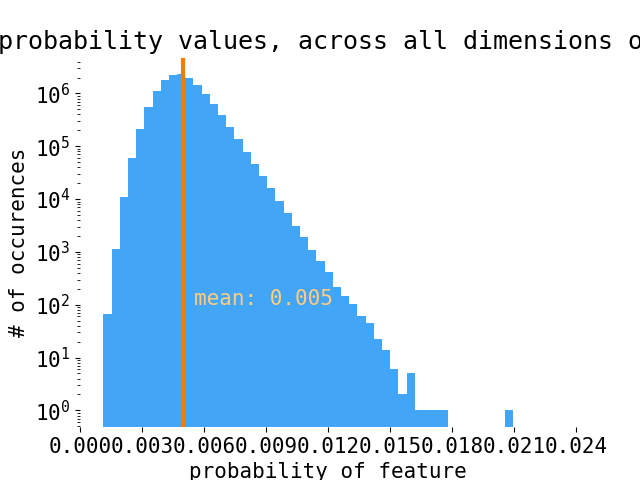
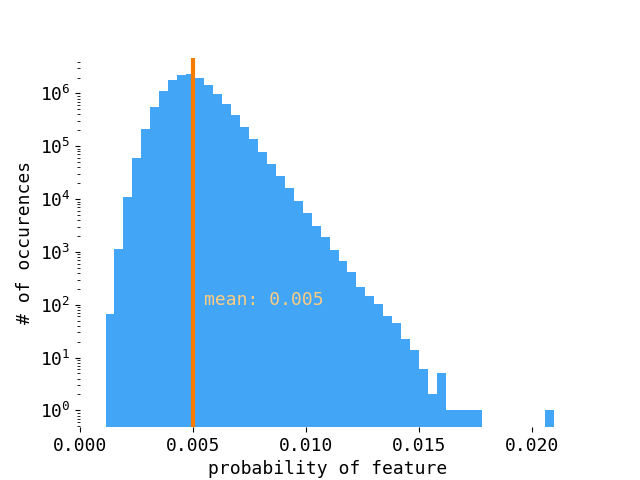
add ADD and DIFFERENCE in word2vec

diff --git a/word2blank/word2vec/add.c b/word2blank/word2vec/add.c
@@ -1,0 +1,147 @@
+//  Copyright 2013 Google Inc. All Rights Reserved.
+//
+//  Licensed under the Apache License, Version 2.0 (the "License");
+//  you may not use this file except in compliance with the License.
+//  You may obtain a copy of the License at
+//
+//      http://www.apache.org/licenses/LICENSE-2.0
+//
+//  Unless required by applicable law or agreed to in writing, software
+//  distributed under the License is distributed on an "AS IS" BASIS,
+//  WITHOUT WARRANTIES OR CONDITIONS OF ANY KIND, either express or implied.
+//  See the License for the specific language governing permissions and
+//  limitations under the License.
+
+#include <stdio.h>
+#include <string.h>
+#include <math.h>
+#include <stdlib.h>
+
+const long long max_size = 2000;         // max length of strings
+const long long N = 40;                  // number of closest words that will be shown
+const long long max_w = 50;              // max length of vocabulary entries
+
+int main(int argc, char **argv) {
+  FILE *f;
+  char st1[max_size];
+  char bestw[N][max_size];
+  char file_name[max_size], st[100][max_size];
+  float dist, len, bestd[N], vec[max_size];
+  long long words, size, a, b, c, d, cn, bi[100];
+  float *M;
+  char *vocab;
+  if (argc < 2) {
+    printf("Usage: ./word-analogy <FILE>\nwhere FILE contains word projections in the BINARY FORMAT\n");
+    return 0;
+  }
+  strcpy(file_name, argv[1]);
+  f = fopen(file_name, "rb");
+  if (f == NULL) {
+    printf("Input file not found\n");
+    return -1;
+  }
+  fscanf(f, "%lld", &words);
+  fscanf(f, "%lld", &size);
+  vocab = (char *)malloc((long long)words * max_w * sizeof(char));
+  M = (float *)malloc((long long)words * (long long)size * sizeof(float));
+  if (M == NULL) {
+    printf("Cannot allocate memory: %lld MB    %lld  %lld\n", (long long)words * size * sizeof(float) / 1048576, words, size);
+    return -1;
+  }
+  for (b = 0; b < words; b++) {
+    a = 0;
+    while (1) {
+      vocab[b * max_w + a] = fgetc(f);
+      if (feof(f) || (vocab[b * max_w + a] == ' ')) break;
+      if ((a < max_w) && (vocab[b * max_w + a] != '\n')) a++;
+    }
+    vocab[b * max_w + a] = 0;
+    for (a = 0; a < size; a++) fread(&M[a + b * size], sizeof(float), 1, f);
+    len = 0;
+    for (a = 0; a < size; a++) len += M[a + b * size] * M[a + b * size];
+    len = sqrt(len);
+    for (a = 0; a < size; a++) M[a + b * size] /= len;
+  }
+  fclose(f);
+  while (1) {
+    for (a = 0; a < N; a++) bestd[a] = 0;
+    for (a = 0; a < N; a++) bestw[a][0] = 0;
+    printf("Enter three words (EXIT to break): ");
+    a = 0;
+    while (1) {
+      st1[a] = fgetc(stdin);
+      if ((st1[a] == '\n') || (a >= max_size - 1)) {
+        st1[a] = 0;
+        break;
+      }
+      a++;
+    }
+    if (!strcmp(st1, "EXIT")) break;
+    cn = 0;
+    b = 0;
+    c = 0;
+    while (1) {
+      st[cn][b] = st1[c];
+      b++;
+      c++;
+      st[cn][b] = 0;
+      if (st1[c] == 0) break;
+      if (st1[c] == ' ') {
+        cn++;
+        b = 0;
+        c++;
+      }
+    }
+    cn++;
+    if (cn < 1) {
+      printf("Only %lld words were entered.. three words are needed at the input to perform the calculation\n", cn);
+      continue;
+    }
+    for (a = 0; a < cn; a++) {
+      for (b = 0; b < words; b++) if (!strcmp(&vocab[b * max_w], st[a])) break;
+      if (b == words) b = 0;
+      bi[a] = b;
+      printf("\nWord: %s  Position in vocabulary: %lld\n", st[a], bi[a]);
+      if (b == 0) {
+        printf("Out of dictionary word!\n");
+        break;
+      }
+    }
+    if (b == 0) continue;
+    printf("\n                                              Word              Distance\n------------------------------------------------------------------------\n");
+    for (a = 0; a < size; a++) { vec[a] = M[a + bi[0] * size]; }
+    for (int i = 1; i < cn; ++i) {
+        for(a = 1; a < size; a++) { vec[a] += M[a + bi[i] * size]; }
+    }
+
+    len = 0;
+    for (a = 0; a < size; a++) len += vec[a] * vec[a];
+    len = sqrt(len);
+    for (a = 0; a < size; a++) vec[a] /= len;
+    for (a = 0; a < N; a++) bestd[a] = 0;
+    for (a = 0; a < N; a++) bestw[a][0] = 0;
+    for (c = 0; c < words; c++) {
+      if (c == bi[0]) continue;
+      if (c == bi[1]) continue;
+      if (c == bi[2]) continue;
+      a = 0;
+      for (b = 0; b < cn; b++) if (bi[b] == c) a = 1;
+      if (a == 1) continue;
+      dist = 0;
+      for (a = 0; a < size; a++) dist += vec[a] * M[a + c * size];
+      for (a = 0; a < N; a++) {
+        if (dist > bestd[a]) {
+          for (d = N - 1; d > a; d--) {
+            bestd[d] = bestd[d - 1];
+            strcpy(bestw[d], bestw[d - 1]);
+          }
+          bestd[a] = dist;
+          strcpy(bestw[a], &vocab[c * max_w]);
+          break;
+        }
+      }
+    }
+    for (a = 0; a < N; a++) printf("%50s\t\t%f\n", bestw[a], bestd[a]);
+  }
+  return 0;
+}

diff --git a/word2blank/word2vec/difference.c b/word2blank/word2vec/difference.c
@@ -1,0 +1,143 @@
+//  Copyright 2013 Google Inc. All Rights Reserved.
+//
+//  Licensed under the Apache License, Version 2.0 (the "License");
+//  you may not use this file except in compliance with the License.
+//  You may obtain a copy of the License at
+//
+//      http://www.apache.org/licenses/LICENSE-2.0
+//
+//  Unless required by applicable law or agreed to in writing, software
+//  distributed under the License is distributed on an "AS IS" BASIS,
+//  WITHOUT WARRANTIES OR CONDITIONS OF ANY KIND, either express or implied.
+//  See the License for the specific language governing permissions and
+//  limitations under the License.
+
+#include <stdio.h>
+#include <string.h>
+#include <math.h>
+#include <stdlib.h>
+
+const long long max_size = 2000;         // max length of strings
+const long long N = 40;                  // number of closest words that will be shown
+const long long max_w = 50;              // max length of vocabulary entries
+
+int main(int argc, char **argv) {
+  FILE *f;
+  char st1[max_size];
+  char bestw[N][max_size];
+  char file_name[max_size], st[100][max_size];
+  float dist, len, bestd[N], vec[max_size];
+  long long words, size, a, b, c, d, cn, bi[100];
+  float *M;
+  char *vocab;
+  if (argc < 2) {
+    printf("Usage: ./word-analogy <FILE>\nwhere FILE contains word projections in the BINARY FORMAT\n");
+    return 0;
+  }
+  strcpy(file_name, argv[1]);
+  f = fopen(file_name, "rb");
+  if (f == NULL) {
+    printf("Input file not found\n");
+    return -1;
+  }
+  fscanf(f, "%lld", &words);
+  fscanf(f, "%lld", &size);
+  vocab = (char *)malloc((long long)words * max_w * sizeof(char));
+  M = (float *)malloc((long long)words * (long long)size * sizeof(float));
+  if (M == NULL) {
+    printf("Cannot allocate memory: %lld MB    %lld  %lld\n", (long long)words * size * sizeof(float) / 1048576, words, size);
+    return -1;
+  }
+  for (b = 0; b < words; b++) {
+    a = 0;
+    while (1) {
+      vocab[b * max_w + a] = fgetc(f);
+      if (feof(f) || (vocab[b * max_w + a] == ' ')) break;
+      if ((a < max_w) && (vocab[b * max_w + a] != '\n')) a++;
+    }
+    vocab[b * max_w + a] = 0;
+    for (a = 0; a < size; a++) fread(&M[a + b * size], sizeof(float), 1, f);
+    len = 0;
+    for (a = 0; a < size; a++) len += M[a + b * size] * M[a + b * size];
+    len = sqrt(len);
+    for (a = 0; a < size; a++) M[a + b * size] /= len;
+  }
+  fclose(f);
+  while (1) {
+    for (a = 0; a < N; a++) bestd[a] = 0;
+    for (a = 0; a < N; a++) bestw[a][0] = 0;
+    printf("Enter three words (EXIT to break): ");
+    a = 0;
+    while (1) {
+      st1[a] = fgetc(stdin);
+      if ((st1[a] == '\n') || (a >= max_size - 1)) {
+        st1[a] = 0;
+        break;
+      }
+      a++;
+    }
+    if (!strcmp(st1, "EXIT")) break;
+    cn = 0;
+    b = 0;
+    c = 0;
+    while (1) {
+      st[cn][b] = st1[c];
+      b++;
+      c++;
+      st[cn][b] = 0;
+      if (st1[c] == 0) break;
+      if (st1[c] == ' ') {
+        cn++;
+        b = 0;
+        c++;
+      }
+    }
+    cn++;
+    if (cn < 2) {
+      printf("Only %lld words were entered.. three words are needed at the input to perform the calculation\n", cn);
+      continue;
+    }
+    for (a = 0; a < cn; a++) {
+      for (b = 0; b < words; b++) if (!strcmp(&vocab[b * max_w], st[a])) break;
+      if (b == words) b = 0;
+      bi[a] = b;
+      printf("\nWord: %s  Position in vocabulary: %lld\n", st[a], bi[a]);
+      if (b == 0) {
+        printf("Out of dictionary word!\n");
+        break;
+      }
+    }
+    if (b == 0) continue;
+    printf("\n                                              Word              Distance\n------------------------------------------------------------------------\n");
+    for (a = 0; a < size; a++) vec[a] = M[a + bi[1] * size] - M[a + bi[0] * size];
+    len = 0;
+    for (a = 0; a < size; a++) len += vec[a] * vec[a];
+    len = sqrt(len);
+    for (a = 0; a < size; a++) vec[a] /= len;
+    for (a = 0; a < N; a++) bestd[a] = 0;
+    for (a = 0; a < N; a++) bestw[a][0] = 0;
+    for (c = 0; c < words; c++) {
+      if (c == bi[0]) continue;
+      if (c == bi[1]) continue;
+      if (c == bi[2]) continue;
+      a = 0;
+      for (b = 0; b < cn; b++) if (bi[b] == c) a = 1;
+      if (a == 1) continue;
+      dist = 0;
+      for (a = 0; a < size; a++) dist += vec[a] * M[a + c * size];
+      for (a = 0; a < N; a++) {
+        if (dist > bestd[a]) {
+          for (d = N - 1; d > a; d--) {
+            bestd[d] = bestd[d - 1];
+            strcpy(bestw[d], bestw[d - 1]);
+          }
+          bestd[a] = dist;
+          strcpy(bestw[a], &vocab[c * max_w]);
+          break;
+        }
+      }
+    }
+    for (a = 0; a < N; a++) printf("%50s\t\t%f\n", bestw[a], bestd[a]);
+  }
+  return 0;
+}

diff --git a/word2blank/word2fuzzy/cli.cpp b/word2blank/word2fuzzy/cli.cpp
@@ -569,6 +569,37 @@ void printDescByEntropy(Vec *M, float cutoff) {
     printf("\n");
 }
 
+void printWordsAtEntropy(Vec *M, float center) {
+    printf("Words at entropy (%f)\n", center);
+    float vals[words];
+    float bestd[words];
+    char bestw[N][max_size];
+
+    float minentropy = -1;
+    for (int a = 0; a < N; a++) bestd[a] = 1000;
+    for (int a = 0; a < N; a++) bestw[a][0] = 0;
+    for (int c = 0; c < words; c++) {
+      const float H = entropy(M[c]);
+      const float dist = (center -  H) * (center - H);
+      string w = string(vocab +c*max_w);
+
+      for (int a = 0; a < N; a++) {
+        if (dist < bestd[a] && word2freq[w] > MINFREQ) {
+          for (int d = N - 1; d > a; d--) {
+            bestd[d] = bestd[d - 1];
+            strcpy(bestw[d], bestw[d - 1]);
+          }
+          bestd[a] = dist;
+          strcpy(bestw[a], &vocab[c * max_w]);
+          break;
+        }
+      }
+    }
+    for (int a = 0; a < N; a++) printf("%50s\t\t%f\n", bestw[a], bestd[a]);
+    plotHistogram("entropies", vals, words, 10);
+    printf("\n");
+}
+
 
 
 Vec interpret(AST ast) {
@@ -1054,6 +1085,7 @@ int main(int argc, char **argv) {
 
     // printAscByEntropy(M);
     printDescByEntropy(M, 100);
+    printWordsAtEntropy(M, 6.26);
     if (NONORMALIZE) {
         cout << "NOTE: unnormalized vectors\n";
     }

diff --git a/word2blank/word2fuzzy/probability-histogram.py b/word2blank/word2fuzzy/probability-histogram.py
@@ -3,7 +3,7 @@ import matplotlib.pyplot as plt
 import numpy as np
 
 rcParams['font.family'] = 'monospace'
-rcParams['font.size'] = '15'
+rcParams['font.size'] = '13'
 
 with open("prob.txt", "r") as f:
     probs = np.array([float(w) for w in f.read().split()])
@@ -11,12 +11,12 @@ with open("prob.txt", "r") as f:
 print(probs[:100])
 axis = plt.axes(frame_on=False)
 
-plt.title("# of occurences of probability values, across all dimensions of vocabulary vectors")
+# plt.title("# of occurences of probability values, across all dimensions of vocabulary vectors")
 
 plt.xlabel("probability of feature")
 plt.ylabel("# of occurences")
 plt.yscale('log')
-xs = list(np.arange(0.0, 0.025, 0.003))
+xs = list(np.arange(0.0, 0.025, 0.005))
 
 plt.axvline(x=1.0 / 200.0, linewidth=3, color="#F57C00")
 

diff --git a/word2blank/word2fuzzy/entropy-histogram.py b/word2blank/word2fuzzy/entropy-histogram.py
@@ -3,7 +3,7 @@ import matplotlib.pyplot as plt
 import numpy as np
 
 rcParams['font.family'] = 'monospace'
-rcParams['font.size'] = '15'
+rcParams['font.size'] = '13'
 
 
 with open("entropy.txt", "r") as f:
@@ -21,7 +21,11 @@ xs = list(np.arange(6.24, 6.30, 0.01))
 plt.axvline(x=6.2918, linewidth=3, color="#F57C00")
 plt.text(6.2918 + 0.0005, 4200, "the", color="#212121")
 
-plt.xticks(xs)
+
+# the
+plt.axvline(x=6.26, linewidth=3, color="#F57C00")
+plt.text(6.26 + 0.0005, 4200, "giga", color="#212121")
+
 plt.xlabel("entropy")
 plt.ylabel("# of occurences")
 
